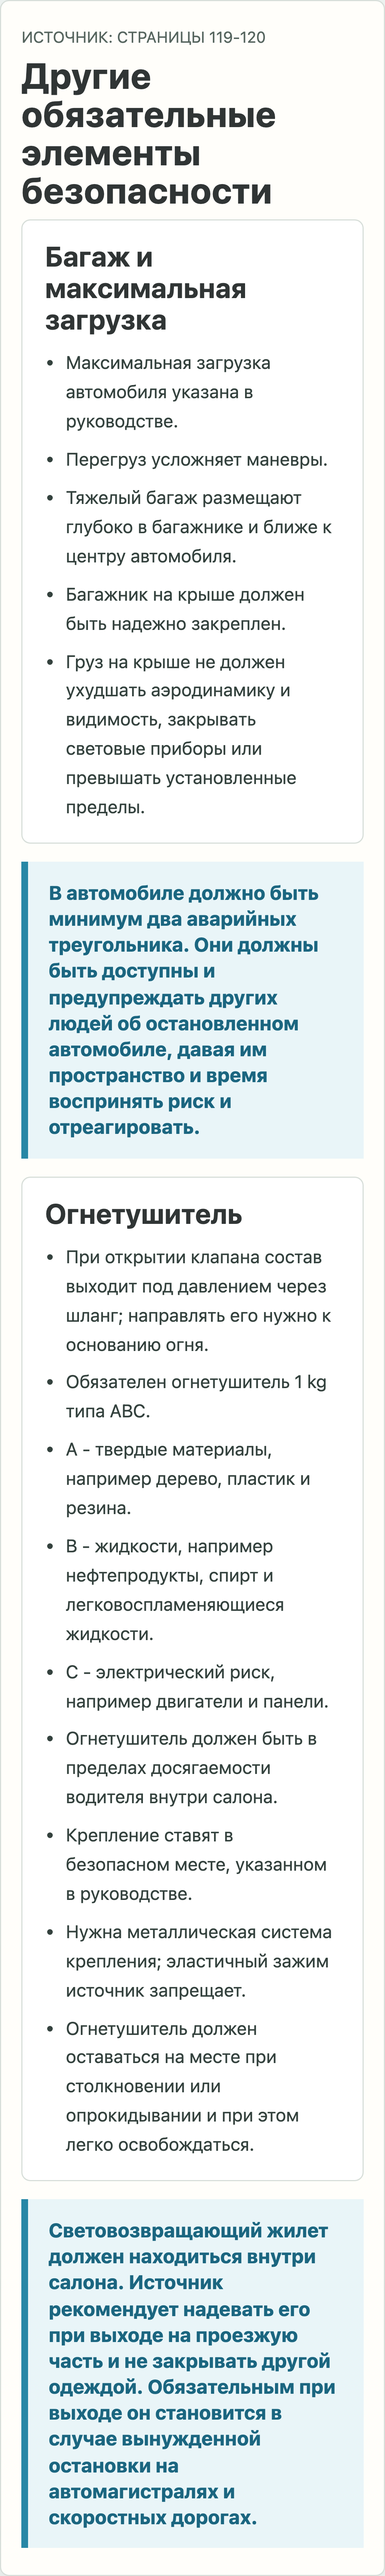
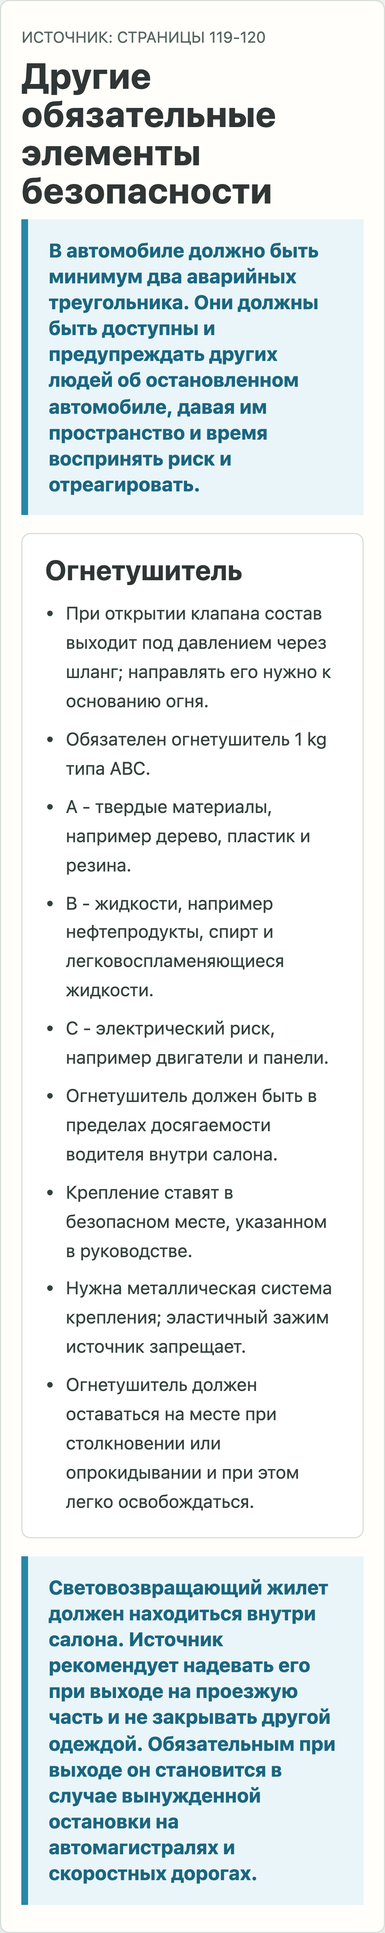
Correct Appendix I luggage boundary

Changed region(s): [[0.0311, 0.0, 0.9951, 1.0], [0.0311, 0.3122, 0.0933, 0.4683], [0.0311, 0.8117, 0.0933, 0.8742]]

diff --git a/src/data/manual-sections/app1-safety-elements.ts b/src/data/manual-sections/app1-safety-elements.ts
@@ -14,7 +14,7 @@ export const app1SafetyElementsSection: ManualGuideSectionContent = {
   id: "app1-safety-elements-content",
   sectionId: "app1-safety-elements",
   titleRu: "Элементы безопасности",
-  sourcePages: [105, 106, 107, 108, 109, 110, 111, 112, 113, 114, 115, 116, 117, 118],
+  sourcePages: [105, 106, 107, 108, 109, 110, 111, 112, 113, 114, 115, 116, 117, 118, 119],
   sourceTitleEs: "Elementos de seguridad",
   status: "implemented",
   styleTokenFamilies: [
@@ -43,7 +43,8 @@ export const app1SafetyElementsSection: ManualGuideSectionContent = {
       "content/validation/manual-guide/app1-safety-elements/page-115-sri-types-source-crop.jpg",
       "content/validation/manual-guide/app1-safety-elements/page-116-safety-elements-source-crop.jpg",
       "content/validation/manual-guide/app1-safety-elements/page-117-safety-elements-source-crop.jpg",
-      "content/validation/manual-guide/app1-safety-elements/page-118-safety-elements-source-crop.jpg"
+      "content/validation/manual-guide/app1-safety-elements/page-118-safety-elements-source-crop.jpg",
+      "content/validation/manual-guide/app1-other-required-safety-elements/page-119-other-required-safety-elements-source-crop.jpg"
     ],
     russianScreenshots: [
       "content/validation/manual-guide/app1-safety-elements/app1-safety-elements-desktop.png",
@@ -51,7 +52,8 @@ export const app1SafetyElementsSection: ManualGuideSectionContent = {
     ],
     notes: [
       "Source page 104 is the Appendix I divider and is recorded in registry evidence, not as a standalone runtime article.",
-      "Pages 105-118 are rendered as selectable Russian learner text while preserving the official safety, legal, maintenance, and numeric details.",
+      "Pages 105-119 are rendered as selectable Russian learner text while preserving the official safety, legal, maintenance, and numeric details.",
+      "Page 119 is shared: the Equipaje paragraphs before the Otros elementos de seguridad obligatorios heading belong to this safety-elements section; the heading and following obligatory equipment content belong to the next section.",
       "The mirror-orientation visual is an x5 source-as-is crop because it is treated as a protected source image. The headrest and SRI visuals are transferred from x5 source crops with Spanish text cleaned at glyph level and Russian labels overlaid as selectable page text."
     ]
   },
@@ -378,6 +380,20 @@ export const app1SafetyElementsSection: ManualGuideSectionContent = {
         "Стекла могут быть многослойными или закаленными; фрагменты должны быть безопасными.",
         "Все стекла должны гарантировать видимость в обе стороны; при тонировке пассажиры должны различаться на короткой дистанции.",
         "Животных нельзя перевозить без фиксации. Они едут сзади и с соответствующей шлейкой."
+      ]
+    },
+    {
+      id: "luggage-safety",
+      kind: "list",
+      titleRu: "Багаж и максимальная загрузка",
+      sourceTextEs:
+        "Equipaje. El peso máximo que puede transportar el vehículo se encuentra en el manual... equipaje pesado en el fondo del baúl y cerca del centro.",
+      itemsRu: [
+        "Максимальная загрузка автомобиля указана в руководстве.",
+        "Перегруз усложняет маневры даже для опытного водителя.",
+        "Тяжелый багаж размещают глубоко в багажнике и ближе к центру автомобиля: это помогает устойчивости направления и поведению автомобиля в поворотах.",
+        "Багажник на крыше должен быть надежно закреплен.",
+        "Груз на крыше не должен ухудшать аэродинамику и видимость, закрывать световые приборы или превышать установленные пределы."
       ]
     }
   ]

diff --git a/src/data/manual-sections/app1-other-required-safety-elements.ts b/src/data/manual-sections/app1-other-required-safety-elements.ts
@@ -25,25 +25,11 @@ export const app1OtherRequiredSafetyElementsSection: ManualGuideSectionContent =
     ],
     notes: [
       "Pages 119-120 are implemented as selectable Russian DOM text.",
-      "The page 119 luggage guidance is preserved with the source section boundary because the Índice assigns page 119 to this Appendix I topic.",
+      "Page 119 is shared: this section starts at the official Otros elementos de seguridad obligatorios heading; the preceding Equipaje paragraphs are owned by app1-safety-elements.",
       "No source image, sign, or road marking is translated or modified in this section."
     ]
   },
   blocks: [
-    {
-      id: "luggage-safety",
-      kind: "list",
-      titleRu: "Багаж и максимальная загрузка",
-      sourceTextEs:
-        "El peso máximo que puede transportar el vehículo se encuentra en el manual... equipaje pesado en el fondo del baúl y cerca del centro.",
-      itemsRu: [
-        "Максимальная загрузка автомобиля указана в руководстве.",
-        "Перегруз усложняет маневры.",
-        "Тяжелый багаж размещают глубоко в багажнике и ближе к центру автомобиля.",
-        "Багажник на крыше должен быть надежно закреплен.",
-        "Груз на крыше не должен ухудшать аэродинамику и видимость, закрывать световые приборы или превышать установленные пределы."
-      ]
-    },
     {
       id: "warning-triangles",
       kind: "callout",

diff --git a/specs/031-manual-document-completion/tasks.md b/specs/031-manual-document-completion/tasks.md
@@ -191,17 +191,20 @@ For each chapter-equivalent content PR:
 - Review-fix decision, PR #190 automated Codex comment `3352716346`: the page `100` mobility-context runtime asset remains a source-crop-based transferred infographic, but the leftover Spanish glyph fragments around the `54%`, `50%`, and `30%` rows were removed with tighter glyph-letter-level cleanup/background restoration. The x5 source crop, source pictograms, row structure, and numeric values are preserved; no photo, sign, road marking, source page image, validation crop, broad box, broad plate, large rectangle, redraw, or protected visual was modified. Registry/test evidence now records the new cleaned PNG hash.
 - Review-fix decision, PR #190 automated Codex comment `3352716350`: the page `101` shared-boundary evidence no longer says the gender-violence support block ends before `page-101-source-line-mask-09`. The coherent evidence records that page `101` introduces the preventive/efficient-driving heading at mask `09` while the gender-violence support phone/SMS/report guidance continues through masks `11-25`; regression assertions now reject the stale `endsBeforeLayoutBlockId` marker for the gender boundary.
 - Implementation decision, Appendix I content `2026-06-04T03:20:22Z`: Implementation Agent assignment was confirmed for worktree `/Users/chap/devel/cabadrive-worktrees/031-appendix-i`, branch `codex/031-appendix-i`, with verified base `origin/main` / `HEAD` `b63639a20e413f339266e2e91ce63c377377230a` after merged PR #190 Chapter 5. Parallel work warning was preserved; no sibling worktree, branch, dirty diff, PR, or process memory was mutated.
-- Coordination note, Appendix I replacement IA: prior Implementation Agent Lorentz `019e8dc1-9113-7b30-b29f-e1d1a9dda172` was closed by Orchestrator after no response/progress. Orchestrator read-only inspected this worktree and found it clean at base with no commits/diff/processes. On resumed assignment, this IA found untracked Appendix I assets/evidence from the interrupted attempt, preserved them, adopted the files that matched the scope, corrected the visual transfers, and left the stale duplicate `content/validation/manual-guide/app1-safety-elements/page-119-safety-elements-source-crop.jpg` untracked and unstaged because page `119` belongs to `app1-other-required-safety-elements`, not `app1-safety-elements`.
+- Coordination note, Appendix I replacement IA: prior Implementation Agent Lorentz `019e8dc1-9113-7b30-b29f-e1d1a9dda172` was closed by Orchestrator after no response/progress. Orchestrator read-only inspected this worktree and found it clean at base with no commits/diff/processes. On resumed assignment, this IA found untracked Appendix I assets/evidence from the interrupted attempt, preserved them, adopted the files that matched the scope, corrected the visual transfers, and left the duplicate `content/validation/manual-guide/app1-safety-elements/page-119-safety-elements-source-crop.jpg` untracked and unstaged; after the later page `119` shared-boundary repair, the tracked x5 crop `content/validation/manual-guide/app1-other-required-safety-elements/page-119-other-required-safety-elements-source-crop.jpg` supplies the shared-page evidence with the same SHA-256, so the duplicate remains unnecessary for the PR.
 - Appendix I source-boundary decision: source page `104` is the Appendix I divider and is recorded as `chapter-divider-only` under `appendix-1-private-cars`, not standalone runtime content. Runtime Appendix I starts on page `105` and ends on page `122`; no Appendix II, Appendix III, Appendix IV, front matter, or unrelated correction content is bundled.
-- Appendix I section-order decision: this PR implements exactly the source-order sections `app1-safety-elements` pages `105-118`, `app1-other-required-safety-elements` pages `119-120`, and `app1-recommended-safety-elements` pages `121-122`.
+- Appendix I section-order decision: this PR implements exactly the source-order sections `app1-safety-elements` pages `105-119`, `app1-other-required-safety-elements` pages `119-120`, and `app1-recommended-safety-elements` pages `121-122`. Page `119` is shared: `Equipaje`/luggage masks `02-09` remain under safety elements, and `Otros elementos de seguridad obligatorios` starts at mask `10`.
 - Appendix I visual decision: source pages `105-122` plus page `104` divider evidence were rendered/exported from the canonical GCBA PDF at x5-equivalent resolution (`2976x4209` page renders), with validation crops copied from those renders without resizing or cleanup. The mirror-orientation photo is a protected source-as-is runtime image with byte-identical validation/runtime hashes and Russian explanation outside the image. The headrest-position and SRI-type visuals are transferred source-crop PNG infographics with targeted glyph/antialias Spanish cleanup and background restoration, preserved source structure/numerals/pictograms, `visibleSpanish=false`, no approximate redraw, no broad mask/plate/patch claim, and selectable Russian DOM labels/explanation outside or over the cleaned image surface. No photo, traffic sign, road marking, source page image, validation crop, or protected source visual was translated, relabeled, recolored, retouched, masked, inpainted, reconstructed, or redrawn.
-- Appendix I content decision: Russian learner content preserves the source safety details for seat belts, seat posture, mirrors, airbags, child restraint systems, mandatory vehicle equipment, required fire extinguisher/triangles/vest/tow-bar details, and recommended safety equipment. The registry and tests guard the page `104` divider disposition, exact source ranges, Appendix I nav wiring, visual evidence metadata, source-boundary end at page `122`, and absence of Appendix II/III/IV bundling.
+- Appendix I content decision: Russian learner content preserves the source safety details for seat belts, seat posture, mirrors, airbags, child restraint systems, luggage/max-load placement, mandatory vehicle equipment, required fire extinguisher/triangles/vest/tow-bar details, and recommended safety equipment. The registry and tests guard the page `104` divider disposition, exact source ranges, page `119` shared-boundary ownership, Appendix I nav wiring, visual evidence metadata, source-boundary end at page `122`, and absence of Appendix II/III/IV bundling.
 - Review-fix decision, PR #191 Review Agent comments `3353239049`, `3353239050`, and `3353239052`: Appendix I learner-facing Russian text no longer contains untranslated English/Spanish scaffold fragments in safety elements, other required equipment, or recommended equipment. The fix localizes terms such as mirror checks, horn and windshield wording, seatbelt exceptions, pregnancy/seatbelt anatomy, headrest/airbag/SRI prose, cabin/passive-safety wording, bumpers/glass/pet transport, luggage/roof-load guidance, warning triangles, extinguisher operation/material classes, reflective vest, first-aid kit contents, and tow-bar recommendations. Official source Spanish remains only in `sourceTextEs`/source evidence, and official abbreviations or units such as `VTV`, `ABS`, `SRI`, `CABA`, `ABC`, `Isofix`, `Latch`, `kg`, `km`, `cm`, `mm`, and `dB` remain where needed.
 - Review-fix decision, PR #191 visual/source scope: no source images, transferred infographics, screenshots, validation crops, source-page images, photos, signs, road markings, registry visual metadata, or runtime visual assets were modified for the localization repair. The intentionally untracked duplicate page `119` safety-elements crop remains preserved and unstaged because it is unrelated to these review findings.
 - AI Review-fix decision, PR #191 automated comments `3353344745`, `3353281144`, and `3353238651`: the SRI regular-seat rule now preserves the source's conjunctive `edad, estatura y peso` restriction by requiring the age, height, and weight thresholds to all be exceeded before a child can use a regular three-point-belt seat; the Appendix I screenshot evidence was regenerated from the current localized DOM; and the recommended-safety source title now uses the exact official `Elementos de seguridad recomendables` wording in runtime data, manual navigation/source registry traceability, validation script source inventory, tests, and feature memory.
 - AI Review-fix visual/source scope, PR #191: only Appendix I desktop/mobile screenshot evidence PNGs were regenerated from the current DOM. No source crops, source page images, photos, traffic signs, road markings, source-as-is mirror photo, or transferred infographic asset bytes were modified; the intentionally untracked duplicate page `119` safety-elements crop remains preserved and unstaged.
 - AI Review-fix decision, PR #191 automated comment `3353459655`: page `109` `Pinchaduras` guidance is now included before the mirror section in `app1-safety-elements`. Russian learner text tells drivers not to brake immediately after a tire bursts or abruptly loses pressure, to hold the steering wheel firmly, and to slow gradually to regain control. Official Spanish remains in `sourceTextEs` only, and tests now guard the page `109` rule.
 - AI Review-fix visual/source scope, PR #191 `3353459655`: adding the visible tire-blowout callout required refreshing Appendix I screenshot evidence. Only the `app1-safety-elements` desktop/mobile screenshots changed; source crops, source page images, photos, signs, road markings, the source-as-is mirror photo, and transferred infographic assets were not modified. The intentionally untracked duplicate page `119` safety-elements crop remains preserved and unstaged.
+- AI Review-fix decision, PR #191 automated comment `3353643677`: page `119` source ownership is corrected. `Equipaje` luggage/max-load guidance now appears in `app1-safety-elements` before the other-required route, while `app1-other-required-safety-elements` starts at the official `Otros elementos de seguridad obligatorios` heading. Registry and source-fidelity evidence record page `119` as shared, with safety masks `page-119-source-line-mask-02` through `09` and other-required masks `10` through `16`.
+- AI Review-fix visual/source scope, PR #191 `3353643677`: the boundary repair changed visible DOM only for `app1-safety-elements` and `app1-other-required-safety-elements`, so those desktop/mobile screenshots were refreshed. No source crops, source page images, photos, signs, road markings, source-as-is mirror photo, or transferred infographic assets were modified. The intentionally untracked duplicate page `119` safety-elements crop remains preserved and unstaged because the tracked page `119` x5 crop already supplies shared-page evidence.
+- Validation staleness notice, PR #191 `2026-06-04T05:20:24Z`: automated Codex comment `3353643677` required a post-final-validation product/content registry/runtime/test/process repair after evidence-only head `43964bd8ecda9bc4d0cc842bd50c777d1a408270` and effective content head `77eefbf268236ba78a0d9f55e8de8f6001a7301c`. Prior Architect validation at `2026-06-04T05:03:23Z` and Analyst validation at `2026-06-04T05:06:09Z` for `77eefbf268236ba78a0d9f55e8de8f6001a7301c` are stale for finalization; the next pushed boundary-repair content head must become the new effective content candidate and receive fresh Architect then Analyst final validation before finalization.
 - Validation staleness notice, PR #190: Review Agent comment `3352682015` required a post-PR non-evidence content/test/process repair after current head `a21074d42a3c10466288856a55c4e7207b0c3386`; therefore any final validation or final-validation evidence for `a21074d42a3c10466288856a55c4e7207b0c3386` is stale for finalization. The next pushed localization repair head must become the new effective content head and receive fresh Architect then Analyst final validation before finalization.
 - Validation staleness notice, PR #190: automated Codex comments `3352716346` and `3352716350` required a post-review non-evidence visual asset/registry/test/process repair after current head `c6a040a21162f6dd9ebc0474e20993e5b8cb45c6`; therefore any final validation or final-validation evidence for `c6a040a21162f6dd9ebc0474e20993e5b8cb45c6` is stale for finalization. The pushed visual/boundary repair head must become the new effective content head and receive fresh Architect then Analyst final validation before finalization.
 - Validation staleness decision, PR #189 `2026-06-03T18:25:31Z`: Codex review comment `3350790136` required a post-validation non-evidence content/test/registry/process repair after effective content head `a8ecdac9daed66274ba51fb04ecbe47279aae2f6` and current head `9d249963ff245f32f67384a4bc17f1361d8bb891`. Prior Architect and Analyst final validation for `a8ecdac9daed66274ba51fb04ecbe47279aae2f6` is stale for finalization; a new effective content head plus fresh Architect final validation followed by Analyst final validation is required after this repair is committed, pushed, and required checks pass.
@@ -253,7 +256,7 @@ For each chapter-equivalent content PR:
 - Resolved PR #190 automated Codex visual cleanup finding `3352716346`: the first review-fix cleanup attempt over-softened source bus pictograms, so it was rejected. The final repair used tighter glyph-level cleanup on the transferred infographic surface, preserved the source crop dimensions and numeric/icon structure, and recorded the new runtime PNG hash after visual inspection.
 - Resolved PR #190 automated Codex boundary finding `3352716350`: the contradictory page `101` `endsBeforeLayoutBlockId` marker was removed from gender-violence shared-boundary evidence, and focused assertions now require masks `11-25` to remain owned by the gender-support section after the preventive-driving heading at mask `09`.
 - Resolved Chapter 5 screenshot evidence gate: focused Playwright capture against a local Vite dev server created committed desktop/mobile screenshot evidence for all four Chapter 5 routes and asserted the page `100` Russian infographic overlay labels are visible, nonzero-sized, and inside the figure bounds.
-- Resolved Appendix I setup: the assigned worktree already contained untracked Appendix I visual/evidence files from the interrupted prior IA attempt. This IA preserved all files, adopted and corrected the in-scope assets/evidence, and kept the duplicate `content/validation/manual-guide/app1-safety-elements/page-119-safety-elements-source-crop.jpg` out of staging because it is a stale duplicate of the page `119` other-required-safety-elements crop and would contradict the `app1-safety-elements` `105-118` boundary.
+- Resolved Appendix I setup: the assigned worktree already contained untracked Appendix I visual/evidence files from the interrupted prior IA attempt. This IA preserved all files, adopted and corrected the in-scope assets/evidence, and kept the duplicate `content/validation/manual-guide/app1-safety-elements/page-119-safety-elements-source-crop.jpg` out of staging. After the later page `119` boundary repair, the duplicate still remains unnecessary because it is byte-identical to the tracked x5 page `119` crop now referenced as shared-page evidence.
 - Resolved Appendix I transferred-infographic quality gate: initial cleanup attempts were visually inspected against the strict rule and not accepted until no readable Spanish remained and no broad plate-like artifact was introduced. Final headrest/SRI PNGs remain source-crop-based transfers with small targeted restoration traces only, not approximate redraws or broad rectangular cover plates.
 
 ## Known Issues
@@ -267,7 +270,7 @@ For each chapter-equivalent content PR:
 - Chapter 4 known issues: none unresolved. The existing Vite large chunk warning remains non-fatal and pre-existing; it is unrelated to Chapter 4 content and requires no action in this slice. Owner decision: accepted no action for Chapter 4 scope. Disposition: not applicable.
 - PR #189 review-fix known issues: none unresolved. The alcohol-limit, `acompañantes en motovehículos` legal-scope, sleep/fatigue wording, visual-fidelity, page-93 alcohol/sleep boundary, refusal-procedure localization, stress-localization, strict infographic visual-rule, overlay-label visual-rule, overlay-label mobile clipping, alcohol-effects localization, sleep/fatigue remedy localization, and broader Chapter 4 learner-facing localization audit fixes are implemented. Chapter 4 protected photos remain source-as-is with Russian explanation outside images; the page `91` alcohol-limit and page `95` distraction-panel infographics are transferred runtime PNGs from the x5 source crops with glyph-letter-level Spanish cleanup evidence, source-crop provenance, `visibleSpanish=false`, no approximate redraw, no plate-style covering, and selectable Russian DOM labels over cleaned infographic surfaces. Old Spanish-only runtime infographic JPG copies are removed; source crops are preserved as validation evidence. Owner decision: accepted no additional action for PR #189 review-fix known issues. Disposition: resolved.
 - Chapter 5 known issues: none unresolved. The existing Vite large chunk warning remains non-fatal and pre-existing; it is unrelated to Chapter 5 content and requires no action in this slice. Review Agent P2 `3352682015` is addressed by localizing the mixed-language preventive-driving title and adding regression coverage. Automated Codex P2 comments `3352716346` and `3352716350` are addressed by cleaning the transferred page `100` mobility infographic glyph fragments and repairing page `101` shared-boundary evidence. Owner decision: accepted no action for Chapter 5 scope. Disposition: not applicable.
-- Appendix I known issues: none unresolved for the PR content. The existing Vite large chunk warning remains non-fatal and pre-existing; it is unrelated to Appendix I content and requires no action in this slice. Local preservation note: `content/validation/manual-guide/app1-safety-elements/page-119-safety-elements-source-crop.jpg` remains an untracked duplicate/provisional file from the interrupted prior attempt and is intentionally not staged because page `119` belongs to `app1-other-required-safety-elements`; Orchestrator may decide later cleanup, but this PR does not delete or revert preserved partial files. Owner decision: no product action requested by Implementation Agent for Appendix I scope. Disposition: local preservation note, not included in PR.
+- Appendix I known issues: none unresolved for the PR content. The existing Vite large chunk warning remains non-fatal and pre-existing; it is unrelated to Appendix I content and requires no action in this slice. Local preservation note: `content/validation/manual-guide/app1-safety-elements/page-119-safety-elements-source-crop.jpg` remains an untracked duplicate/provisional file from the interrupted prior attempt and is intentionally not staged because the tracked page `119` x5 crop under `app1-other-required-safety-elements` has the same SHA-256 and now supplies shared-page boundary evidence; Orchestrator may decide later cleanup, but this PR does not delete or revert preserved partial files. Owner decision: no product action requested by Implementation Agent for Appendix I scope. Disposition: local preservation note, not included in PR.
 
 ## Chapter 2 Implementation Verification Evidence
 
@@ -391,9 +394,9 @@ For each chapter-equivalent content PR:
 - Base and scope evidence: `git rev-parse HEAD` before editing returned `b63639a20e413f339266e2e91ce63c377377230a`, matching the Orchestrator-assigned verified `origin/main` base after merged PR #190. Initial active-worktree status showed branch `codex/031-appendix-i` with untracked Appendix I visual/evidence directories from the interrupted prior attempt and no local commits. Work stayed in `/Users/chap/devel/cabadrive-worktrees/031-appendix-i` on branch `codex/031-appendix-i`.
 - Source extraction evidence: Appendix I source pages were rendered/exported from `content/official-documents/originals/gcba-manual-vehiculo-4-ruedas-2023.pdf` at x5-equivalent source resolution; source page renders were `2976x4209`. Validation source crops under `content/validation/manual-guide/appendix-1-private-cars/`, `app1-safety-elements/`, `app1-other-required-safety-elements/`, and `app1-recommended-safety-elements/` were copied from those renders without resizing, translation, cleanup, retouching, or broad masking.
[3 lines of base64/hex data omitted]
 - Browser evidence: in-app browser spot check at `http://127.0.0.1:5191/#manual-section-app1-safety-elements` confirmed `sectionId: app1-safety-elements`, `hasHeadrest: true`, `hasSri: true`, and `hasMirror: true`.
-- Focused verification passed: `node scripts/manual-guide-source-fidelity.mjs` passed with `status: pass`, `mode: section-registry-with-complete-chapters-1-through-5-and-appendix-1`, `sectionsChecked: 30`, `pendingSections: 0`, `implementedSections: 30`, `skippedSourcePages: [21,43,56,57,89,98,104]`, `skippedDividerPages: [21,43,57,89,98,104]`, `sharedSourcePages: [55,93,94,95,99,100,101]`, and `strictVisualRulePolicy: 031-strict-source-fidelity`.
+- Focused verification passed: `node scripts/manual-guide-source-fidelity.mjs` passed with `status: pass`, `mode: section-registry-with-complete-chapters-1-through-5-and-appendix-1`, `sectionsChecked: 30`, `pendingSections: 0`, `implementedSections: 30`, `skippedSourcePages: [21,43,56,57,89,98,104]`, `skippedDividerPages: [21,43,57,89,98,104]`, `sharedSourcePages: [55,93,94,95,99,100,101,119]`, and `strictVisualRulePolicy: 031-strict-source-fidelity`.
 - Focused verification passed: `node --test tests/content-manual-guide-chapters.test.mjs` passed with `80` tests and `0` failures. New assertions cover Appendix I hierarchy, page `104` divider disposition, source ranges through page `122`, exact three section ids, private-car safety detail retention, strict visual metadata, source boundaries, and no Appendix II/III/IV bundling.
 - Focused verification passed: `pnpm exec tsc --noEmit`; `pnpm run validate:content` with source-fidelity `sectionsChecked: 30`, `pendingSections: 0`, and `implementedSections: 30`; `git diff --check`; `pnpm run build` with service worker generation and the existing non-fatal Vite large chunk warning.
 - Repository verification passed: `node scripts/check-feature-memory.mjs --worktree`; `pnpm run test` with `389` tests and `0` failures; `pnpm run preflight`, including feature-memory gate, repository baseline check, content validation, `389` unit tests, production build, and `78` Playwright tests with `0` failures; the existing Vite large chunk warning appeared during builds and remains non-fatal/pre-existing.
@@ -406,6 +409,9 @@ For each chapter-equivalent content PR:
 - PR #191 AI Review-fix focused and broader verification, `2026-06-04T04:20:58Z`: `node --test tests/content-manual-guide-chapters.test.mjs` passed with `80` tests and `0` failures; `node scripts/manual-guide-source-fidelity.mjs` passed with `sectionsChecked: 30`, `pendingSections: 0`, and `implementedSections: 30`; `pnpm exec tsc --noEmit` passed; `pnpm run validate:manual-4ruedas` passed with `200/200` pages and `56` topics; `node scripts/check-feature-memory.mjs --worktree` passed; `git diff --check` passed; and `pnpm run preflight` passed, including content validation, `389` unit tests, production build, and `78` Playwright tests with `0` failures. The existing Vite large chunk warning appeared during builds and remains non-fatal/pre-existing.
 - PR #191 tire-blowout AI Review-fix screenshot/DOM verification, `2026-06-04T04:44:02Z`: Vite dev server ran on `http://127.0.0.1:5174`; Playwright recaptured Appendix I desktop/mobile screenshot evidence after explicitly loading lazy section images. `app1-safety-elements` screenshots changed to include the page `109` tire-blowout callout (`912x6594` desktop, `1029x38265` mobile); the other-required and recommended screenshots stayed byte-identical to the prior AI Review refresh. Live DOM smoke passed for visible Russian blowout guidance and confirmed `Pinchaduras` did not appear in learner-facing DOM text.
 - PR #191 tire-blowout AI Review-fix focused and broader verification, `2026-06-04T04:47:09Z`: after the final `titleRu`-free callout shape, `pnpm exec tsc --noEmit` passed; `node --test tests/content-manual-guide-chapters.test.mjs` passed with `80` tests and `0` failures; `node scripts/manual-guide-source-fidelity.mjs` passed with `sectionsChecked: 30`, `pendingSections: 0`, and `implementedSections: 30`; `node scripts/check-feature-memory.mjs --worktree` passed; `git diff --check` passed; and full `pnpm run preflight` passed, including feature-memory gate, repository baseline check, content validation, `389` unit tests, production build, service-worker generation, and `78` Playwright tests with `0` failures. The existing Vite large chunk warning appeared during builds and remains non-fatal/pre-existing.
+- PR #191 page `119` luggage-boundary AI Review-fix screenshot/DOM verification, `2026-06-04T05:20:24Z`: Vite dev server ran on `http://127.0.0.1:5174`; Playwright recaptured `app1-safety-elements` and `app1-other-required-safety-elements` desktop/mobile screenshots from the current DOM. The capture asserted safety-elements includes the luggage/max-load rule and other-required no longer includes it. Refreshed screenshot dimensions are `912x6902` and `1029x40290` for safety-elements, and `912x964` and `1029x5157` for other-required; recommended screenshots stayed byte-identical.
+- PR #191 page `119` luggage-boundary AI Review-fix focused verification, `2026-06-04T05:20:24Z`: `node scripts/manual-guide-source-fidelity.mjs` passed with `sectionsChecked: 30`, `pendingSections: 0`, `implementedSections: 30`, and `sharedSourcePages: [55,93,94,95,99,100,101,119]`; `node --test tests/content-manual-guide-chapters.test.mjs` passed with `80` tests and `0` failures after stale shared-page expectations were updated; `pnpm exec tsc --noEmit` passed. The first focused content-test attempt failed only on stale assertions that still expected page `119` to be unshared and scanned a boundary-evidence note for `Equipaje`; the final rerun passed.
+- PR #191 page `119` luggage-boundary AI Review-fix broader verification, `2026-06-04T05:24:15Z`: `node scripts/check-feature-memory.mjs --worktree` passed; `git diff --check` passed; and full `pnpm run preflight` passed, including feature-memory gate, repository baseline check, content validation with `sharedSourcePages: [55,93,94,95,99,100,101,119]`, `389` unit tests, production build, service-worker generation, and `78` Playwright tests with `0` failures. The existing Vite large chunk warning appeared during builds and remains non-fatal/pre-existing.
 - Protected visual confirmation: no Appendix I photo, traffic sign, road-marking visual, source crop, validation crop, or source page image was translated, relabeled, recolored, retouched, masked, inpainted, reconstructed, or redrawn. The only Appendix I Spanish cleanup is the headrest/SRI transferred-infographic glyph cleanup from source crops; the mirror photo remains source-as-is.
 - Final handoff evidence: `git diff --cached --check` is run before each commit, and the final pushed PR head is reported by Implementation Agent handoff.
 
@@ -773,8 +779,8 @@ For each chapter-equivalent content PR:
 
 ## Implementation Agent Feedback
 
-- Implementation Agent feedback for Appendix I scope after Review Agent P2 comments `3353239049`, `3353239050`, and `3353239052`, and automated AI Review comments `3353344745`, `3353281144`, `3353238651`, and `3353459655`: none requiring Architect disposition. Page `104` is divider-only; pages `105-122` are implemented as the assigned Appendix I content slice; no Appendix II/III/IV/front-matter or unrelated corrections are bundled. Learner-facing Appendix I text is localized to Russian except official abbreviations/units; the SRI regular-seat restriction now requires age, height, and weight thresholds to all be exceeded; the page `109` tire-blowout callout now advises no immediate braking, firm steering, and gradual slowing; source Spanish remains in `sourceTextEs`/evidence; recommended-safety traceability uses `Elementos de seguridad recomendables`. Protected mirror photo remains source-as-is with Russian explanation outside the image; headrest and SRI infographics are source-crop-based transferred PNGs with glyph/antialias-level Spanish cleanup, no readable Spanish, preserved source structure/numerals/pictograms, no broad plate-like artifacts, and selectable Russian labels/explanation. Local untracked duplicate `content/validation/manual-guide/app1-safety-elements/page-119-safety-elements-source-crop.jpg` is preserved but not staged because it is outside the safety-elements page range. Architect disposition requested: no action needed for Appendix I PR content.
-- No unresolved Implementation Agent feedback. Architect disposition: disposed; no action needed for PR #191 at `77eefbf268236ba78a0d9f55e8de8f6001a7301c`.
+- Implementation Agent feedback for Appendix I scope after Review Agent P2 comments `3353239049`, `3353239050`, and `3353239052`, and automated AI Review comments `3353344745`, `3353281144`, `3353238651`, `3353459655`, and `3353643677`: no product feedback requiring Architect disposition beyond fresh final validation after this content repair. Page `104` is divider-only; pages `105-122` are implemented as the assigned Appendix I content slice; no Appendix II/III/IV/front-matter or unrelated corrections are bundled. Learner-facing Appendix I text is localized to Russian except official abbreviations/units; the SRI regular-seat restriction now requires age, height, and weight thresholds to all be exceeded; the page `109` tire-blowout callout now advises no immediate braking, firm steering, and gradual slowing; page `119` luggage/max-load guidance is owned by `app1-safety-elements` before the `Otros elementos de seguridad obligatorios` heading, and the other-required route starts at that heading. Source Spanish remains in `sourceTextEs`/evidence; recommended-safety traceability uses `Elementos de seguridad recomendables`. Protected mirror photo remains source-as-is with Russian explanation outside the image; headrest and SRI infographics are source-crop-based transferred PNGs with glyph/antialias-level Spanish cleanup, no readable Spanish, preserved source structure/numerals/pictograms, no broad plate-like artifacts, and selectable Russian labels/explanation. Local untracked duplicate `content/validation/manual-guide/app1-safety-elements/page-119-safety-elements-source-crop.jpg` is preserved but not staged because the tracked same-hash page `119` crop supplies shared-page evidence. Architect disposition requested: rerun final Architect validation for the new pushed content head; no other Appendix I product action requested.
+- Prior Architect disposition for PR #191 at `77eefbf268236ba78a0d9f55e8de8f6001a7301c` is stale after automated Codex comment `3353643677` required the page `119` boundary content repair; fresh Architect validation is required for the new pushed content head.
 - Implementation Agent feedback for Chapter 5 scope after Review Agent comment `3352682015` and automated Codex comments `3352716346` / `3352716350`: none unresolved. Page `98` is divider-only; pages `99-103` are implemented as the assigned Chapter 5 content slice; page `99`, page `100`, and page `101` shared boundaries are recorded and tested; page `101` now coherently records that gender-violence support masks `11-25` continue after the preventive-driving heading at mask `09`; protected page `103` photo/quote remains source-as-is with Russian explanation outside the image; the page `100` mobility infographic is a source-crop-based transferred PNG with glyph-letter-level Spanish cleanup, `visibleSpanish=false`, source-crop provenance, cleaned `54%`/`50%`/`30%` row glyph fragments, and selectable Russian DOM labels over the cleaned infographic surface; the mixed-language preventive-driving title is localized to Russian and covered by regression tests. No Appendix/front-matter or unrelated content is bundled. Architect disposition: no action requested.
 - No unresolved Implementation Agent feedback. Architect disposition: disposed; no action needed for PR #190 at `46132199fb12a2590032b81d6c9b9ebc86efab44`.
 - Implementation Agent feedback for Chapter 4 scope after PR #189 review fixes through Review Agent comment `3352354749`: fully disposed. Architect disposition: disposed; no action needed for PR #189 at `4e819cfd80ebf09b4d3db560a6bc3b57766ef39a`. Page `89` remains divider-only; pages `90-97` are implemented as the assigned Chapter 4 content slice; page `93` alcohol/drugs-to-sleep/fatigue boundary, page `94` sleep/fatigue-to-stress boundary, and page `95` stress-to-distractions/direct-route boundary are recorded and tested. Visual/source-fidelity evidence keeps the page `90` drug-test photo and page `97` photo/quote as protected source-as-is x5 runtime crops with Russian learner explanation outside images, while the page `91` alcohol-limit and page `95` distraction-panel infographics are source-crop-based transferred PNGs with glyph-letter-level Spanish cleanup, `visibleSpanish=false`, source-crop provenance, selectable Russian labels over the cleaned infographic surfaces, and selectable Russian explanation/table content outside images. PR #189 review fixes for alcohol-limit rows, including the `acompañantes en motovehículos` legal scope, sleep/fatigue Russian wording, visual-fidelity thread `PRRT_kwDOSX65IM6G1aYu`, Codex review comments `3350790136`, `3351081820`, `3351219753`, `3351329538`, `3351663509`, `3352010484`, `3352233947`, and Review Agent comments `3352219633`, `3352327144`, and `3352354749` are implemented, locally verified, and included at the validated effective content head.
